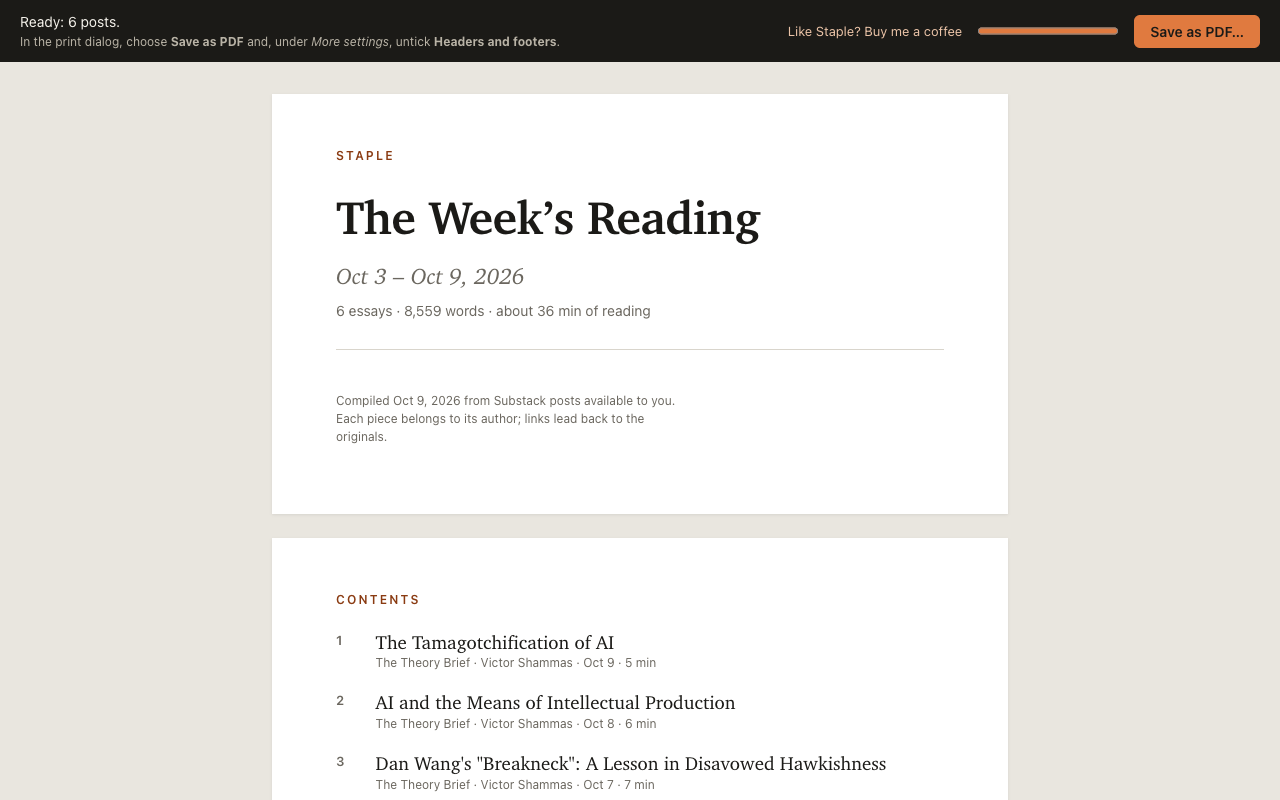
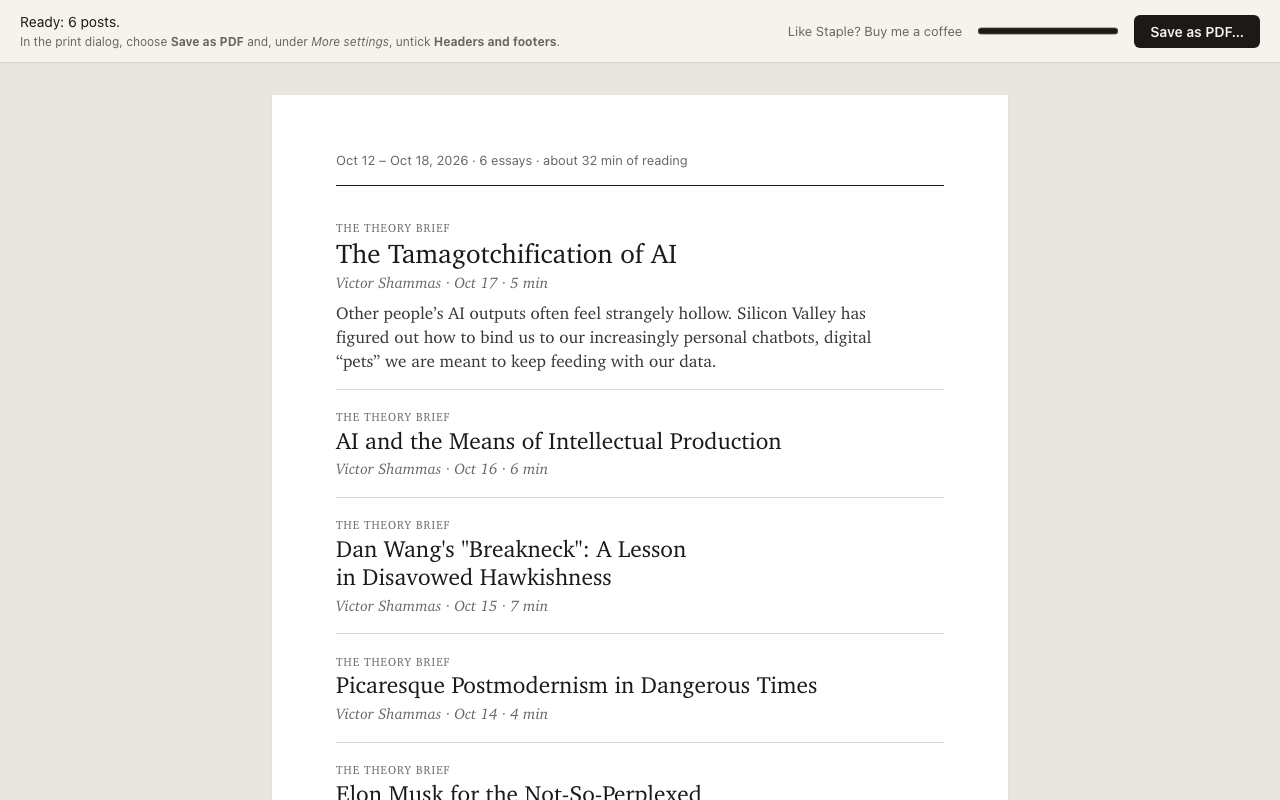
Site: the 1.1.0 look and the typeface choice
Claude-Session: https://claude.ai/code/session_016fN2jXWmPWvKXBNMaMnT4N

diff --git a/docs/index.html b/docs/index.html
@@ -40,7 +40,7 @@
 
       <figure class="shot">
         <div class="win-bar" aria-hidden="true"><i></i><i></i><i></i>Staple</div>
-        <img src="images/book.png" alt="A book made by Staple: the cover reads “The Week’s Reading, Oct 3 – Oct 9, 2026”, followed by a contents page listing three essays" width="1280" height="800">
+        <img src="images/book.png" alt="A collection made by Staple: its first page is the contents, a line reading “Oct 12 – Oct 18, 2026 · 6 essays · about 32 min of reading” above the essays’ titles, the first with its summary" width="1280" height="800">
       </figure>
     </div>
   </section>
@@ -57,7 +57,7 @@
         <div class="card"><h3>Groups</h3><p>Save sets of publications, like “AI” or “Culture”, and switch between them in one click. “All” ticks everything.</p></div>
         <div class="card"><h3>Essays, not notes</h3><p>Choose a date range (the last 7 days by default) and a minimum length (400 words by default). Podcasts and threads are skipped.</p></div>
         <div class="card"><h3>Clean reading</h3><p>Subscribe buttons and share widgets are removed. Tweets, videos and embedded posts become tidy quotes and links. Footnotes are kept and linked.</p></div>
-        <div class="card"><h3>Image size</h3><p>Full width, 75%, 50%, 25% or none. Smaller images make smaller files.</p></div>
+        <div class="card"><h3>Images and type</h3><p>Images full width, 75%, 50%, 25% or none: smaller images make smaller files. Set the text in Charter, Palatino, Baskerville, Iowan Old Style, Georgia or a sans serif.</p></div>
         <div class="card"><h3>Back to the writers</h3><p>Every post ends with a link to the original, so you can like, comment or restack it on Substack. A closing note encourages supporting the writers.</p></div>
       </div>
     </div>
@@ -70,11 +70,11 @@
       <div class="steps">
         <div class="card"><h3>Pick your publications</h3><p>Import your subscriptions, or add a Substack by URL. Then tick the publications you want, or pick a group.</p></div>
         <div class="card"><h3>Choose dates and length</h3><p>The last 7, 14 or 30 days, or any range, and a minimum length. Staple lists the posts it finds; untick any you'd rather skip.</p></div>
-        <div class="card"><h3>Make PDF, EPUB or HTML</h3><p>Choose an image size and a format. The PDF opens in Chrome's print dialog, ready to save. The EPUB and HTML files download straight away.</p></div>
+        <div class="card"><h3>Make PDF, EPUB or HTML</h3><p>Choose an image size, a typeface and a format. The PDF opens in Chrome's print dialog, ready to save. The EPUB and HTML files download straight away.</p></div>
       </div>
       <figure class="shot shot-wide">
         <div class="win-bar" aria-hidden="true"><i></i><i></i><i></i>Staple</div>
-        <img src="images/app.png" alt="Staple's Publications step: groups named All, AI &amp; economics, Culture and Long reads above a list of Substack publications with checkboxes, and a field to add one by URL" width="1280" height="800" loading="lazy">
+        <img src="images/app.png" alt="Staple's Publications step: groups named All, Theory &amp; ideas, Culture and Long reads above a list of Substack publications with checkboxes, and a field to add one by URL" width="1280" height="800" loading="lazy">
       </figure>
     </div>
   </section>
